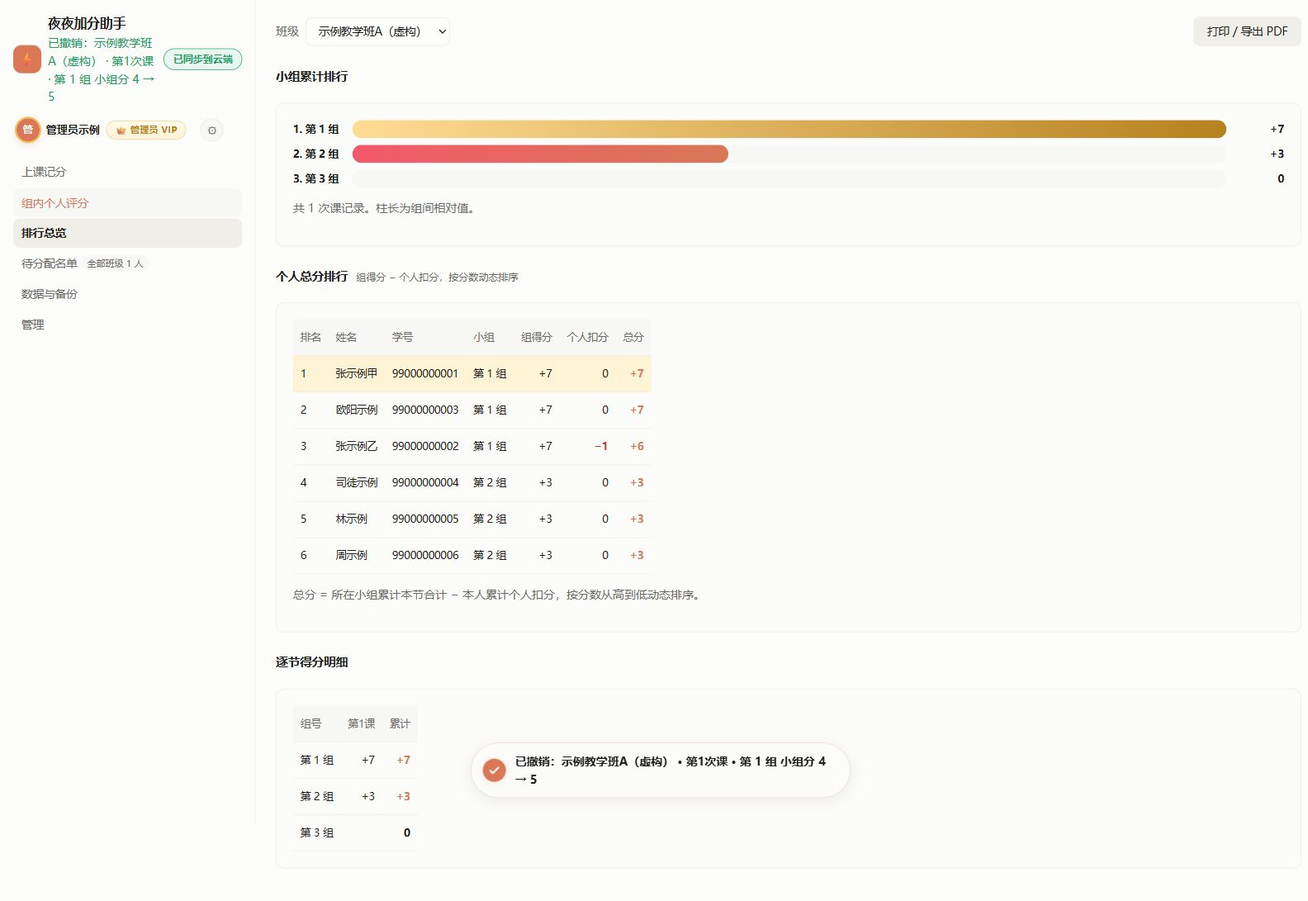
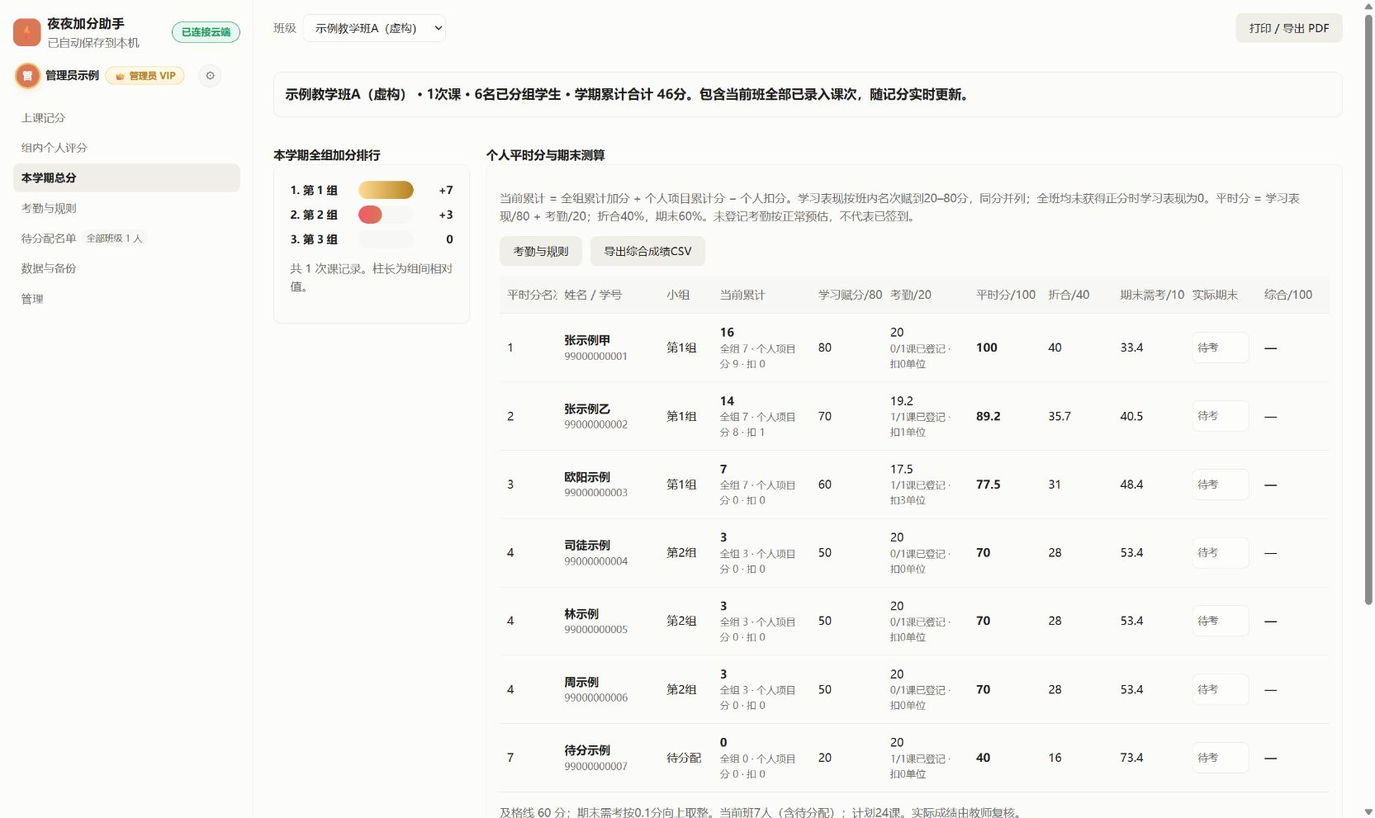
Migrate attendance and regular-score assignment with side-by-side rankings

diff --git a/assessment.js b/assessment.js
@@ -1,0 +1,79 @@
+/* Adapted from classroom-bubble-score: competition-rank assignment, 80/20 regular, 40/60 final. */
+(function (root) {
+  'use strict';
+  var defaults = {totalLessons:24, late:1, truant:3, leave:0, early:1, passScore:60, customRules:[]};
+  var labels = {present:'正常出勤',late:'迟到',truant:'旷课',leave:'请假',early:'早退'};
+  function esc(v) { return String(v == null?'':v).replace(/[&<>"']/g,function(c){return {'&':'&amp;','<':'&lt;','>':'&gt;','"':'&quot;',"'":'&#39;'}[c];}); }
+  function round(n) { return Math.round((n+Number.EPSILON)*10)/10; }
+  function key(m) { return m.sid?'sid:'+m.sid:m.id?'id:'+m.id:m.no!=null?'no:'+m.no:'name:'+m.name; }
+  function settings(cls) {
+    var cfg=Object.assign({},defaults,cls.assessmentSettings||{});
+    ['totalLessons','late','truant','leave','early','passScore'].forEach(function(k){var max=k==='totalLessons'?1000:100,min=k==='totalLessons'?1:0;if(!Number.isInteger(cfg[k])||cfg[k]<min||cfg[k]>max)cfg[k]=defaults[k];});
+    cfg.customRules=Array.isArray(cfg.customRules)?cfg.customRules.filter(function(r){return r&&typeof r.id==='string'&&typeof r.name==='string'&&Number.isInteger(r.loss)&&r.loss>=0&&r.loss<=100;}).slice(0,20):[];
+    return cfg;
+  }
+  function roster(cls,raw) {
+    var map=new Map();
+    cls.groups.forEach(function(g){g.members.forEach(function(m){if(m.name)map.set(key(m),Object.assign({},m,{gno:g.no}));});});
+    (cls.roster||[]).forEach(function(m){if(m.name && !map.has(key(m)))map.set(key(m),Object.assign({},m,{gno:0}));});
+    return Array.from(map.values()).map(function(m){var r=(raw||[]).find(function(r){return r.gno===m.gno && r.name===m.name && r.sid===m.sid;});return Object.assign({},m,{key:key(m),groupScore:r?r.groupScore:0,project:r?r.project:0,personal:r?r.personal:0,total:r?r.total:0});});
+  }
+  function deduction(status,cfg) {
+    if(status==='present')return 0;
+    if(Object.prototype.hasOwnProperty.call(labels,status))return Number(cfg[status])||0;
+    var rule=(cfg.customRules||[]).find(function(r){return r.id===status;});return rule?rule.loss:0;
+  }
+  function statusName(status,cfg) { var r=(cfg.customRules||[]).find(function(r){return r.id===status;});return labels[status]||(r&&r.name)||status; }
+  function rows(cls,lessons,raw) {
+    var cfg=settings(cls),students=roster(cls,raw),sorted=students.slice().sort(function(a,b){return b.total-a.total||String(a.sid||a.no||a.name).localeCompare(String(b.sid||b.no||b.name),undefined,{numeric:true});});
+    var previous=null,rank=0,max=sorted.length?sorted[0].total:0;
+    sorted.forEach(function(m,i){
+      if(i===0||m.total!==previous)rank=i+1;previous=m.total;
+      m.rawRank=rank;m.learning=max<=0?0:sorted.length<=1?80:round(80-60*(rank-1)/(sorted.length-1));
+      var loss=0,recorded=0;
+      lessons.forEach(function(l){var a=l.attendance&&l.attendance[m.key];if(a){recorded++;loss+=Number(a.loss)||0;}});
+      m.loss=loss;m.recorded=recorded;
+      m.attendance=round(Math.max(0,Math.min(20,20*(cfg.totalLessons-loss)/cfg.totalLessons)));
+      m.regular=round(m.learning+m.attendance);m.contribution=round(m.regular*.4);
+      m.needed=Math.max(0,Math.ceil(((cfg.passScore-m.contribution)/.6-1e-9)*10)/10);
+      var exam=cls.examScores&&cls.examScores[m.key];m.exam=exam==null?'':exam;m.final=m.exam===''?null:round(m.contribution+m.exam*.6);
+    });
+    sorted.sort(function(a,b){return b.regular-a.regular||a.rawRank-b.rawRank||String(a.sid||a.name).localeCompare(String(b.sid||b.name));});
+    previous=null;rank=0;sorted.forEach(function(m,i){if(i===0||m.regular!==previous)rank=i+1;previous=m.regular;m.rank=rank;});return sorted;
+  }
+  function options(cfg,value) {
+    var statuses=Object.keys(labels).concat((cfg.customRules||[]).map(function(r){return r.id;}));
+    return '<option value="">未记录</option>'+statuses.map(function(status){var loss=deduction(status,cfg);return '<option value="'+esc(status)+'"'+(status===value?' selected':'')+'>'+esc(statusName(status,cfg))+' · '+(loss?'扣'+loss+'单位':'不扣')+'</option>';}).join('')+(value&&!statuses.includes(value)?'<option selected value="'+esc(value)+'">历史原因（保留）</option>':'');
+  }
+  function renderRank(ctx) {
+    var cls=ctx.cls,cfg=settings(cls),ms=rows(cls,ctx.lessons,ctx.raw);
+    ctx.root.innerHTML='<p class="rank-note">当前累计 = 全组累计加分 + 个人项目累计分 − 个人扣分。学习表现按班内名次赋到20–80分，同分并列；全班均未获得正分时学习表现为0。平时分 = 学习表现/80 + 考勤/20；折合40%，期末60%。未登记考勤按正常预估，不代表已签到。</p><div class="assessment-actions"><button class="btn" id="assessmentGoAttendance">考勤与规则</button><button class="btn" id="assessmentExport">导出综合成绩CSV</button></div><div class="assessment-scroll"><table class="data assessment-table"><thead><tr><th>平时分名次</th><th>姓名 / 学号</th><th>小组</th><th>当前累计</th><th>学习赋分/80</th><th>考勤/20</th><th>平时分/100</th><th>折合/40</th><th>期末需考/100</th><th>实际期末</th><th>综合/100</th></tr></thead><tbody>'+ms.map(function(m){return '<tr><td>'+m.rank+'</td><td><b>'+esc(m.name)+'</b><small>'+esc(m.sid||m.no||'')+'</small></td><td>'+(m.gno?'第'+m.gno+'组':'待分配')+'</td><td><b>'+m.total+'</b><small>全组 '+m.groupScore+' · 个人项目分 '+m.project+' · 扣 '+m.personal+'</small></td><td>'+m.learning+'</td><td>'+m.attendance+'<small>'+m.recorded+'/'+ctx.lessons.length+'课已登记 · 扣'+m.loss+'单位</small></td><td><b>'+m.regular+'</b></td><td>'+m.contribution+'</td><td>'+(m.needed>100?'超过100，无法达到':m.needed)+'</td><td><input class="assessment-exam" aria-label="'+esc(m.name)+' 实际期末成绩" data-exam-key="'+esc(m.key)+'" type="number" min="0" max="100" step="0.1" value="'+m.exam+'" placeholder="待考"></td><td>'+(m.final==null?'—':m.final)+'</td></tr>';}).join('')+'</tbody></table></div><p class="rank-note">及格线 '+cfg.passScore+' 分；期末需考按0.1分向上取整。当前班'+ms.length+'人（含待分配）；计划'+cfg.totalLessons+'课。实际成绩由教师复核。</p>';
+    ctx.root.querySelector('#assessmentGoAttendance').onclick=ctx.openAttendance;
+    ctx.root.querySelectorAll('[data-exam-key]').forEach(function(input){input.onchange=function(){var v=input.value===''?null:Number(input.value);if(v!==null&&(!Number.isFinite(v)||v<0||v>100)){ctx.message('期末成绩须为0–100分。');return;}var old=cls.examScores&&cls.examScores[input.dataset.examKey];if(!cls.examScores)cls.examScores={};if(v===null)delete cls.examScores[input.dataset.examKey];else cls.examScores[input.dataset.examKey]=v;ctx.log('期末成绩',cls.name+' · '+ms.find(function(m){return m.key===input.dataset.examKey;}).name+'：'+(old==null?'未填':old)+' → '+(v===null?'未填':v));ctx.save();renderRank(ctx);};});
+    ctx.root.querySelector('#assessmentExport').onclick=function(){ctx.export(cls.name+'_综合成绩.csv',[['名次','姓名','学号','小组','当前累计','学习赋分/80','考勤/20','平时分/100','折合/40','期末需考','实际期末','综合/100']].concat(ms.map(function(m){return [m.rank,m.name,m.sid||m.no||'',m.gno||'待分配',m.total,m.learning,m.attendance,m.regular,m.contribution,m.needed>100?'超过100':m.needed,m.exam,m.final==null?'':m.final];})));};
+  }
+  function renderAttendance(ctx) {
+    var cls=ctx.cls,cfg=settings(cls),students=roster(cls,ctx.raw),lesson=ctx.lesson;
+    ctx.root.innerHTML='<h2 class="sec-title">考勤与扣分设置</h2><div class="card lesson-bar"><label class="field">班级<select id="attendanceClassSel">'+ctx.classes.map(function(c){return '<option value="'+esc(c.id)+'"'+(c.id===cls.id?' selected':'')+'>'+esc(c.name)+'</option>';}).join('')+'</select></label><label class="field">课次<select id="attendanceLessonSel"'+(!ctx.lessons.length?' disabled':'')+'>'+(!ctx.lessons.length?'<option>暂无课次</option>':ctx.lessons.map(function(l){return '<option value="'+esc(l.id)+'"'+(lesson&&l.id===lesson.id?' selected':'')+'>第'+l.seq+'次 · '+esc(l.date)+'</option>';}).join(''))+'</select></label></div><details class="card assessment-settings"><summary>本班赋分与考勤规则</summary><form id="assessmentSettingsForm"><div class="assessment-settings-grid">'+[['totalLessons','本学期计划课次',1,1000],['late','迟到扣课节单位',0,100],['truant','旷课扣课节单位',0,100],['leave','请假扣课节单位',0,100],['early','早退扣课节单位',0,100],['passScore','综合及格线',0,100]].map(function(f){return '<label class="field col">'+f[1]+'<input name="'+f[0]+'" type="number" step="1" min="'+f[2]+'" max="'+f[3]+'" value="'+cfg[f[0]]+'" required></label>';}).join('')+'</div><p class="note">考勤分 = max(0, 20 × (计划课次 − 累计扣单位) ÷ 计划课次)。旧考勤保留当时扣单位，规则修改仅用于之后登记；如需调整旧记录，请在对应课次重新保存。学习80+考勤20，平时40%+期末60%。</p><button type="submit" class="btn primary">保存本班规则</button></form><h4>自定义原因</h4><div id="attendanceCustomRules">'+(cfg.customRules||[]).map(function(r){return '<span class="attendance-rule">'+esc(r.name)+' · 扣'+r.loss+'单位 <button class="btn tiny" data-remove-rule="'+esc(r.id)+'" title="停用规则，历史记录保留">停用</button></span>';}).join('')+'</div><form id="attendanceCustomForm" class="btnrow"><input id="attendanceCustomName" aria-label="自定义考勤原因" maxlength="40" placeholder="例如：未到原因" required><input id="attendanceCustomLoss" aria-label="自定义扣单位" type="number" min="0" max="100" step="1" value="1" required><button class="btn" type="submit">添加原因</button></form></details><p class="note">按课次保存，包含未分组人员。未登记不伪造出勤记录；修改此表只影响考勤模块，不重复扣课堂积分。</p>'+(lesson?'<div class="card"><div class="assessment-actions"><input id="attendanceSearch" aria-label="搜索考勤学生" placeholder="姓名 / 学号"><label><input id="attendanceSelectAll" type="checkbox">全选可见</label><select id="attendanceBatchStatus" aria-label="批量考勤状态">'+options(cfg,'')+'</select><button id="attendanceApplyBatch" class="btn">应用到所选</button><button id="attendanceSave" class="btn primary">保存本课考勤</button></div><p id="attendanceDirty" class="note" role="status">没有未保存的改动。</p><div class="assessment-scroll"><table class="data attendance-table"><thead><tr><th>选择</th><th>姓名</th><th>学号</th><th>小组</th><th>本课状态</th><th>已保存扣单位</th></tr></thead><tbody>'+students.map(function(m){var a=lesson.attendance&&lesson.attendance[m.key];return '<tr data-att-row><td><input type="checkbox" data-att-check="'+esc(m.key)+'" aria-label="选择'+esc(m.name)+'"></td><td>'+esc(m.name)+'</td><td>'+esc(m.sid||m.no||'')+'</td><td>'+(m.gno?'第'+m.gno+'组':'待分配')+'</td><td><select data-att-key="'+esc(m.key)+'" aria-label="'+esc(m.name)+' 考勤">'+options(cfg,a&&a.status)+'</select>'+(a&&!labels[a.status]&&!(cfg.customRules||[]).some(function(r){return r.id===a.status;})?'<small>历史原因：'+esc(a.label)+'（保留）</small>':'')+'</td><td>'+(a?a.loss:'—')+'</td></tr>';}).join('')+'</tbody></table></div></div>':'<p class="card">请先在上课记分中新开一课，再登记考勤。</p>');
+    var dirty=false,changed=new Set();
+    function mark(){dirty=true;var el=ctx.root.querySelector('#attendanceDirty');if(el)el.textContent='有未保存的考勤改动，请点击保存本课考勤。';}
+    function guard(){if(dirty){ctx.message('请先保存本课考勤，再切换班级或课次。');return false;}return true;}
+    ctx.root.querySelector('#attendanceClassSel').onchange=function(){if(!guard()){this.value=cls.id;return;}ctx.select(this.value,null);};
+    ctx.root.querySelector('#attendanceLessonSel').onchange=function(){if(!guard()){this.value=lesson.id;return;}ctx.select(cls.id,this.value);};
+    ctx.root.querySelector('#assessmentSettingsForm').onsubmit=function(e){e.preventDefault();if(!guard())return;var next=Object.assign({},cfg);for(var name of ['totalLessons','late','truant','leave','early','passScore']){var input=this.elements.namedItem(name),v=Number(input.value);if(!Number.isInteger(v)||v<Number(input.min)||v>Number(input.max)){ctx.message('请填写范围内的整数。');return;}next[name]=v;}cls.assessmentSettings=next;cfg=next;ctx.log('考勤规则',cls.name+' · 计划'+next.totalLessons+'课；迟到'+next.late+'，旷课'+next.truant+'，请假'+next.leave+'，早退'+next.early+'单位；及格线'+next.passScore);ctx.save();ctx.message('本班规则已保存。');};
+    ctx.root.querySelector('#attendanceCustomForm').onsubmit=function(e){e.preventDefault();if(!guard())return;var name=ctx.root.querySelector('#attendanceCustomName').value.trim(),loss=Number(ctx.root.querySelector('#attendanceCustomLoss').value);if(!name||name.length>40||!Number.isInteger(loss)||loss<0||loss>100||Object.keys(labels).some(function(s){return labels[s]===name;})||(cfg.customRules||[]).some(function(r){return r.name===name;})||(cfg.customRules||[]).length>=20){ctx.message('原因须唯一，最多20项，扣单位为0–100整数。');return;}var next=Object.assign({},cfg,{customRules:(cfg.customRules||[]).concat([{id:'custom_'+Date.now().toString(36),name:name,loss:loss}])});cls.assessmentSettings=next;ctx.log('考勤规则',cls.name+' · 新增'+name+'：扣'+loss+'单位');ctx.save();renderAttendance(ctx);};
+    ctx.root.querySelectorAll('[data-remove-rule]').forEach(function(b){b.onclick=function(){if(!guard())return;cls.assessmentSettings=Object.assign({},cfg,{customRules:(cfg.customRules||[]).filter(function(r){return r.id!==b.dataset.removeRule;})});ctx.log('考勤规则',cls.name+' · 停用自定义原因，历史保留');ctx.save();renderAttendance(ctx);};});
+    if(!lesson)return;
+    ctx.root.querySelector('#attendanceSearch').oninput=function(){var q=this.value.trim().toLowerCase();ctx.root.querySelectorAll('[data-att-row]').forEach(function(tr){tr.hidden=!tr.textContent.toLowerCase().includes(q);});};
+    ctx.root.querySelector('#attendanceSelectAll').onchange=function(){var checked=this.checked;ctx.root.querySelectorAll('[data-att-row]').forEach(function(tr){if(!tr.hidden)tr.querySelector('[data-att-check]').checked=checked;});};
+    ctx.root.querySelectorAll('[data-att-key]').forEach(function(input){input.onchange=function(){changed.add(input.dataset.attKey);mark();};});
+    ctx.root.querySelector('#attendanceApplyBatch').onclick=function(){var value=ctx.root.querySelector('#attendanceBatchStatus').value,count=0;ctx.root.querySelectorAll('[data-att-check]:checked').forEach(function(check){var tr=check.closest('tr');if(!tr.hidden){tr.querySelector('[data-att-key]').value=value;changed.add(check.dataset.attCheck);count++;}});if(count)mark();else ctx.message('请先选择学生。');};
+    ctx.root.querySelector('#attendanceSave').onclick=function(){if(!dirty){ctx.message('没有考勤改动需要保存。');return;}if(!lesson.attendance)lesson.attendance={};var current=settings(cls),details=[];ctx.root.querySelectorAll('[data-att-key]').forEach(function(input){var k=input.dataset.attKey;if(!changed.has(k))return;var old=lesson.attendance[k],status=input.value,m=students.find(function(m){return m.key===k;});if(status){lesson.attendance[k]={status:status,label:statusName(status,current),loss:deduction(status,current),updatedAt:new Date().toISOString()};}else delete lesson.attendance[k];details.push(m.name+'：'+(old?old.label:'未记录')+' → '+(status?statusName(status,current)+'（扣'+deduction(status,current)+'单位）':'未记录'));});ctx.log('考勤',cls.name+' · 第'+lesson.seq+'次 · '+lesson.date+' · '+details.join('；'));ctx.save();dirty=false;ctx.message('本课考勤已保存，平时分已实时重算。');renderAttendance(ctx);};
+    ctx.isDirty=function(){return dirty;};
+  }
+  function printHtml(cls,lessons,raw) {
+    var ms=rows(cls,lessons,raw);
+    return '<h2>平时赋分与期末测算</h2><p>学习表现80＋考勤20，平时折合40%，期末60%；未登记考勤按正常预估。</p><table><thead><tr><th>名次</th><th>姓名</th><th>学号</th><th>当前累计</th><th>学习/80</th><th>考勤/20</th><th>平时/100</th><th>折合/40</th><th>期末需考</th><th>实际期末</th><th>综合</th></tr></thead><tbody>'+ms.map(function(m){return '<tr><td>'+m.rank+'</td><td>'+esc(m.name)+'</td><td>'+esc(m.sid||m.no||'')+'</td><td>'+m.total+'</td><td>'+m.learning+'</td><td>'+m.attendance+'</td><td>'+m.regular+'</td><td>'+m.contribution+'</td><td>'+(m.needed>100?'超过100':m.needed)+'</td><td>'+m.exam+'</td><td>'+(m.final==null?'—':m.final)+'</td></tr>';}).join('')+'</tbody></table>';
+  }
+  root.JFDT_ASSESSMENT={printHtml:printHtml,key:key,settings:settings,roster:roster,rows:rows,deduction:deduction,renderRank:renderRank,renderAttendance:renderAttendance};
+})(typeof window==='undefined'?globalThis:window);

diff --git a/app.js b/app.js
@@ -533,12 +533,14 @@ function removeMemberAt(cls, g, j) {
 
   /* ================= 视图切换 ================= */
 
+  var attendanceContext = null;
   var view = 'score';
 
   function switchView(v) {
+    if(view==='attendance' && v!=='attendance' && attendanceContext && attendanceContext.isDirty && attendanceContext.isDirty()){flash('请先保存本课考勤，再切换页面。');return;}
     if (v === 'admin' && !(CLOUD && CLOUD.profile() && CLOUD.profile().isAdmin)) v = 'score';
     view = v;
-    ['score', 'leader', 'rank', 'pool', 'data', 'admin'].forEach(function (k) {
+    ['score', 'leader', 'rank', 'attendance', 'pool', 'data', 'admin'].forEach(function (k) {
       var el = $('#view-' + k);
       if (el) el.hidden = (k !== v);
     });
@@ -550,6 +552,15 @@ function removeMemberAt(cls, g, j) {
     if (v === 'admin') renderAdmin();
     if (v === 'score') renderScore();
     if (v === 'leader') renderLeader();
+    if (v === 'attendance') renderAttendance();
+  }
+
+  function renderAttendance() {
+    var cls=curClass(); if(!cls || !window.JFDT_ASSESSMENT)return;
+    if(!$('#view-attendance')){var section=document.createElement('section');section.id='view-attendance';section.className='view';$('#main').appendChild(section);}
+    $('#view-attendance').hidden=false;
+    attendanceContext={root:$('#view-attendance'),cls:cls,classes:S.classes,lessons:lessonsOf(cls.id),lesson:curLesson(cls),raw:memberTotals(cls),save:function(){save();},log:addOperationLog,message:function(text){flash(text);},select:function(classId,lessonId){S.ui.classId=classId;S.ui.lessonId=lessonId;save(false);fillClassSelects();renderAttendance();}};
+    window.JFDT_ASSESSMENT.renderAttendance(attendanceContext);
   }
 
   function renderLeader() {
@@ -1059,21 +1070,7 @@ function removeMemberAt(cls, g, j) {
     /* 个人排行 */
     var ms = memberTotals(cls);
     $('#semesterSummary').textContent = cls.name+' · '+ls.length+'次课 · '+ms.length+'名已分组学生 · 学期累计合计 '+ms.reduce(function(a,m){return a+m.total;},0)+'分。包含当前班全部已录入课次，随记分实时更新。';
-    $('#memberRank').innerHTML = ms.length
-      ? '<table class="data fit"><thead><tr>' +
-          '<th>排名</th><th>姓名</th><th>学号</th><th>小组</th>' +
-          '<th class="n">全组加分</th><th class="n">个人项目分</th><th class="n">个人扣分</th><th class="n">本学期总分</th>' +
-        '</tr></thead><tbody>' + ms.map(function (m, i) {
-          return '<tr' + (i === 0 && m.total > 0 ? ' class="top1"' : '') + '>' +
-            '<td>' + (i + 1) + '</td><td>' + esc(m.name || '（未命名）') + '</td>' +
-            '<td>' + esc(m.sid || (m.no == null ? '' : m.no)) + '</td><td>第 ' + m.gno + ' 组</td>' +
-            '<td class="n">' + fmt(m.groupScore) + '</td><td class="n">' + fmt(m.project) + '</td>' +
-            '<td class="n' + (m.personal ? ' neg' : '') + '">' + (m.personal ? '−' + m.personal : '0') + '</td>' +
-            '<td class="n ' + signClass(m.total) + '">' + fmt(m.total) + '</td>' +
-          '</tr>';
-        }).join('') + '</tbody></table>' +
-        '<p class="rank-note">总分 = 全组累计加分 + 个人项目累计分 − 本人累计个人扣分，按分数从高到低动态排序。</p>'
-      : '<p class="rank-note">这个班还没录入成员名单。到「数据与备份」页补充后再看。</p>';
+    if(window.JFDT_ASSESSMENT) window.JFDT_ASSESSMENT.renderRank({root:$('#memberRank'),cls:cls,lessons:ls,raw:ms,save:function(){save();},log:addOperationLog,message:flash,openAttendance:function(){switchView('attendance');},export:function(name,rows){download(name,toCsv(rows),'text/csv');}});
 
     /* 逐节明细 */
     $('#lessonMatrix').innerHTML = ls.length
@@ -1765,6 +1762,7 @@ function removeMemberAt(cls, g, j) {
         }).join('') + '</tbody></table>';
     }
 
+    if(window.JFDT_ASSESSMENT) html+=window.JFDT_ASSESSMENT.printHtml(cls,ls,ms);
     printArea(html + '</div>', 'rank');
   }
 

diff --git a/index.html b/index.html
@@ -31,6 +31,7 @@
     <button data-view="score" class="on">上课记分</button>
     <button data-view="leader">组内个人评分</button>
     <button data-view="rank">本学期总分</button>
+    <button data-view="attendance">考勤与规则</button>
     <button data-view="pool">待分配名单<em id="tabPoolBadge" hidden></em></button>
     <button data-view="data">数据与备份</button>
     <button data-view="admin" id="tabAdmin" hidden>管理</button>
@@ -163,11 +164,10 @@
     </div>
 
     <p id="semesterSummary" class="card semester-summary" role="status"></p>
-    <h2 class="sec-title">本学期全组加分排行</h2>
-    <div class="card tablewrap" id="groupRank"></div>
-
-    <h2 class="sec-title">本学期个人总分 <span class="hint">全组加分 + 个人项目分 − 个人扣分</span></h2>
-    <div class="card tablewrap" id="memberRank"></div>
+    <div class="rank-columns">
+      <section class="rank-groups"><h2 class="sec-title">本学期全组加分排行</h2><div class="card tablewrap" id="groupRank"></div></section>
+      <section class="rank-members"><h2 class="sec-title">个人平时分与期末测算</h2><div class="card" id="memberRank"></div></section>
+    </div>
 
     <h2 class="sec-title">逐节得分明细</h2>
     <div class="card tablewrap" id="lessonMatrix"></div>
@@ -444,6 +444,7 @@
   </form>
 </dialog>
 <script src="leader-scoring.js"></script>
+<script src="assessment.js"></script>
 <script src="ui-feedback.js"></script>
 <dialog id="dlgOperationLog"><div class="dlg"><div class="dlg-head"><h3>操作日志</h3><button type="button" id="closeOperationLog" class="dlg-x" aria-label="关闭操作日志">✕</button></div><div class="dlg-body"><p class="note">本账号的记分记录，跨班级、跨课次按操作顺序排列。旧记录无法确认操作人和时间，不等于你刚才的操作。个人项目评分从本版本起记录日志；更早的填写记录请到评分表核对。</p>      <button id="btnUndo" class="btn" disabled title="撤销上一次改动（快捷键 Ctrl+Z）">↶ 撤销</button>
       <button id="btnRedo" class="btn" disabled title="恢复刚撤销的操作（Ctrl+Shift+Z）">↷ 重做</button><p id="undoDetail" class="note" role="status"></p><p id="redoDetail" class="note"></p><div id="operationLogList"></div><p class="note">可在每条记分右侧指定撤销；同一分数有后续修改时先撤销较新的相关记录，避免覆盖新成绩。个人项目日志用于核对，修改请到原评分表。日志保留最近500条。新记分后，原重做分支失效。</p></div></div></dialog>

diff --git a/styles.css b/styles.css
@@ -1211,3 +1211,30 @@ table.sheet td.c-sum .c { font-size: 13px; color: var(--text); }
 .log-row-ghost {background:var(--panel);animation:log-row-out 200ms ease-out forwards;}
 @keyframes log-row-out {to {opacity:0;transform:translateX(16px);}}
 @media(prefers-reduced-motion:reduce){.log-row-ghost {animation:none;display:none;}}
+
+.rank-columns {display:grid;grid-template-columns:minmax(0,1fr);gap:20px;align-items:start;}
+.rank-columns section {min-width:0;}
+.rank-columns .sec-title {margin-top:0;}
+.rank-members #memberRank {padding:16px;}
+.assessment-scroll {overflow:auto;max-width:100%;}
+.assessment-table {width:100%;min-width:1000px;table-layout:fixed;}
+.assessment-table th,.assessment-table td {padding:10px 8px;vertical-align:middle;font-size:14px;white-space:nowrap;}
+.assessment-table small {display:block;white-space:normal;max-width:170px;font-size:12px;color:var(--muted);}
+.assessment-table th {white-space:normal;}
+.assessment-table th:nth-child(1) {width:70px;}
+.assessment-table th:nth-child(2) {width:125px;}
+.assessment-table th:nth-child(3) {width:65px;}
+.assessment-table th:nth-child(4) {width:120px;}
+.assessment-table th:nth-child(6) {width:105px;}
+.assessment-exam {width:72px;min-height:38px;font:inherit;padding:6px;}
+.assessment-actions {display:flex;gap:10px;align-items:center;flex-wrap:wrap;margin:12px 0;}
+.assessment-actions input,.assessment-actions select,.attendance-table select {font:inherit;min-height:40px;padding:6px 10px;}
+.assessment-settings {padding:16px;margin-bottom:16px;}
+.assessment-settings summary {cursor:pointer;font-weight:600;}
+.assessment-settings-grid {display:grid;grid-template-columns:repeat(auto-fit,minmax(170px,1fr));gap:12px;margin:16px 0;}
+.attendance-rule {display:inline-flex;gap:6px;align-items:center;margin:5px 12px 10px 0;}
+.attendance-table {width:100%;min-width:650px;}
+.attendance-table [type=checkbox],#attendanceSelectAll {width:20px;height:20px;}
+@media(min-width:1600px){.rank-columns {grid-template-columns:240px minmax(0,1fr);}.rank-groups .bar-row {grid-template-columns:75px minmax(30px,1fr) 40px;gap:8px;}.rank-groups .who {font-size:13px;}}
+@media print{.assessment-actions,.assessment-settings {display:none;}.rank-columns{display:block;}}
+@media(min-width:1600px){.rank-groups{position:sticky;top:16px;}.rank-members .assessment-scroll{max-height:70dvh;}.assessment-table thead th{position:sticky;top:0;z-index:1;background:var(--panel);}}

diff --git a/docs/使用指南.md b/docs/使用指南.md
@@ -218,3 +218,19 @@
 
 ## 计分更新（2026-10-17，覆盖上文旧公式）
 个人项目评价现在自动进入个人总分；个人总分=全组累计加分+个人项目累计分−个人扣分。全组小组分上限5，每名组员都获得全组分；个人项目分只属于本人，不叠加到全组排行。记分表姓名下显示本节项目、全组和个人合计。撤销前可看具体班级/课次/对象/数值，并确认；误撤销可点击重做，继续新记分后重做分支清空。旧制10分历史不自动截断。
+
+## 综合赋分与考勤（当前版本）
+
+![左右排行与综合成绩](screenshots/08-rankings.png)
+
+宽屏左侧为全组加分排行，右侧是个人综合成绩；手机自动上下显示，宽表可以横向滚动。当前累计仍是“全组累计+个人项目累计−个人扣分”；学习赋分另算，不覆盖原始分数。学习表现使用课堂气泡原规则：按全班竞争名次赋20–80分，同分并列并占实际人数位次；全班没有正分时学习表现为0。含待分组学生，其原始累计为0。
+
+学习赋分80+考勤20=平时100，平时折合40，期末占60。表中给出达到及格线需要的期末分数，按0.1向上取整；超过100提示无法达到，不把预测当作实际成绩。输入实际期末0–100后，综合分实时计算。导出综合成绩CSV或打印PDF可保留这些列。
+
+![考勤与规则](screenshots/15-attendance.png)
+
+进入“考勤与规则”先选班级、课次。单人下拉选择，或搜索姓名/学号、勾选学生、选择批量状态并“应用到所选”；最后点击“保存本课考勤”。未保存时会阻止切换班级、课次和其他页面。正常出勤、迟到、旷课、请假、早退及自定义原因均支持；未分组学生也能考勤。“未记录”恢复无记录，不冒充正常出勤。
+
+展开“本班赋分与考勤规则”：默认计划24课、迟到扣1单位、旷课3、请假0、早退1，默认及格60。按实际学期修改计划课次。每次扣单位影响20分考勤模块，公式为`max(0,20×(计划课次−累计扣单位)/计划课次)`，不会重复扣课堂积分。未登记按正常出勤预估，表格显示登记数量。
+
+规则修改只影响之后登记，历史扣单位按当时记录保存；要改旧考勤扣单位，请到对应课次重新保存。停用自定义原因不删除历史。考勤、规则、实际期末成绩均随账号同步、包含在完整JSON备份。当前没有自动导入气泡旧站真实考勤。

diff --git a/项目交接.md b/项目交接.md
@@ -191,3 +191,14 @@ Pages：https://zcq19991029.github.io/ye-ye-score-helper/
 - 日志新增逐条撤销按钮：可跨字段指定旧操作；同一字段有后续修改或整组清零依赖时禁用旧项，提示先撤销后续记录，避免覆盖新成绩。已撤销区提供恢复（按撤销逆序）；完整流水保留可折叠。执行即时生效，行影200ms渐退，减少动态时关闭。
 
 - 触屏日志支持左划：96px阈值，松手才撤销，未松手拉回取消；纵向滚动/系统取消手势不撤销。粗指针隐藏顶部撤销，保留重做和逐条按钮备用；减少动态关闭渐退与回弹。指针模拟覆盖拉回取消、纵向保护、松手撤销；真机触屏仍需用户体验验收。
+
+## 2026-10-17 课堂气泡赋分与考勤能力迁移
+
+- 新 assessment.js：从 classroom-bubble-score/index.html 的 classroomAssignments/attendanceModuleScore/assessmentPageByRegularScore 迁移竞争名次80–20赋分、考勤20与平时40%/期末60%模型；保留原累计，不重写真实成绩。
+- 宽屏排行左右两列，小组栏约1/5、个人综合约4/5；窄屏上下。当前累计/学习赋分/考勤/平时/折合/期末需考/实际期末/综合明确分列，含待分配人员。综合CSV与打印同步。
+- 考勤页支持课次/班级、姓名学号搜索、选择可见、批量状态、单人状态、正常/迟到/旷课/请假/早退及自定义原因；显式保存、未保存阻止导航丢失；绑定学生稳定key与课次id。旧记录存扣单位快照；停用原因不删除历史。
+- 按班存 assessmentSettings、examScores；按课次存 attendance。通过已有classes/lessons快照同步，不新增账号/后端服务。Worker验证设置、状态、扣单位、实际考试范围。
+- 默认计划24课、迟到1/旷课3/请假0/早退1、及格60；未登记为正常预估，未伪造真实考勤，不自动复制气泡旧站数据。
+- 本轮公式/前后端/打包测试与浏览器验证以最终结果记录；真机触屏及实际课程考勤尚未写入验证。
+
+- 本轮发布前：公式15、前后端96、后端29、密码21、打包23项通过（共184）；浏览器虚构数据验证迟到/旷课/未分组请假、刷新恢复，1680宽屏全部列同屏、375手机无页面横向溢出。正式账号发布前备份已保存，未写入任何真实考勤。
